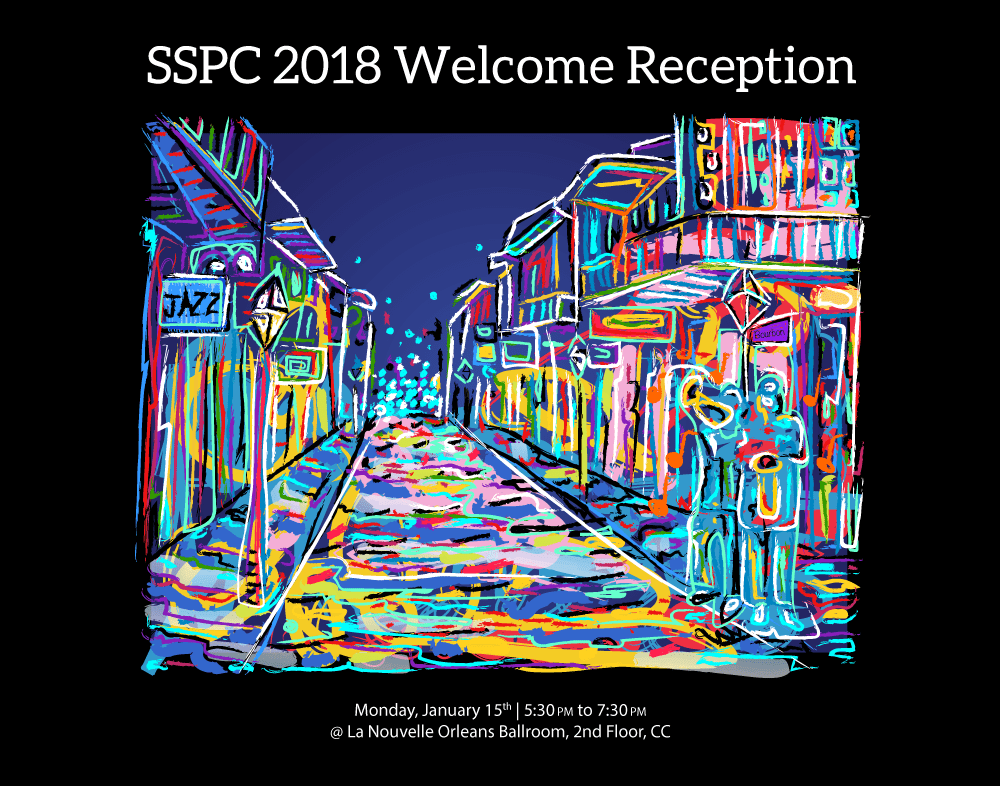
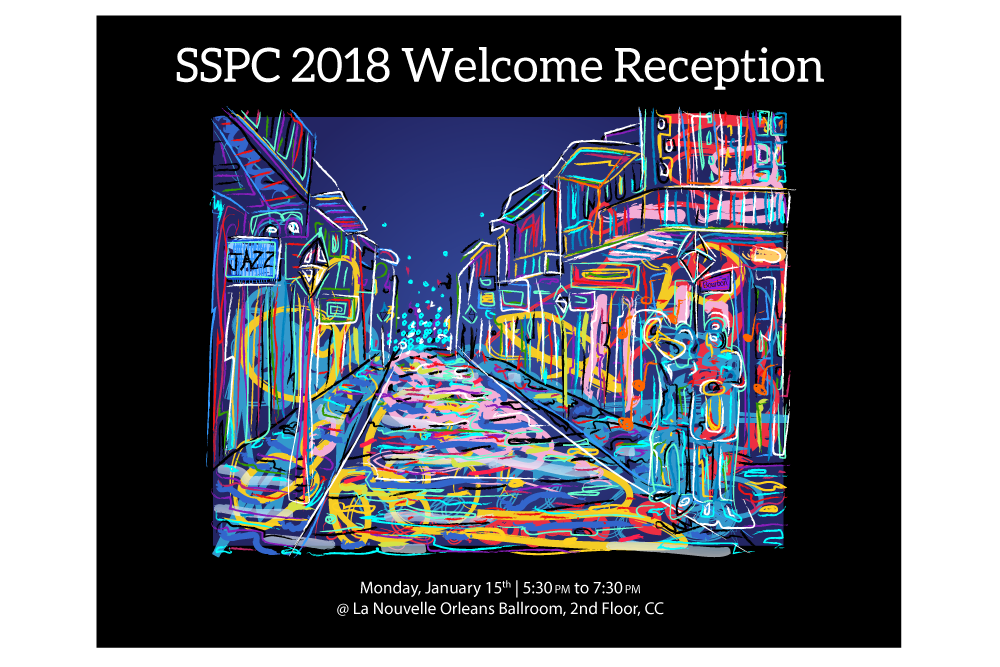
updated the image descriptions (#3)
updated the image descriptions for the print and digital images. I also updated the background color.

diff --git a/constants/print.js b/constants/print.js
@@ -1,14 +1,14 @@
 export default {
   "images": [
     {
-      "name": "my print 1",
+      "name": "Awards Program",
       "thumbnail": {
         "alt": "Awards program",
         "1x": "/static/print/<uniqueId>/thumbnail/@1x.png",
         "2x": "/static/print/<uniqueId>/thumbnail/@2x.png",
       },
       "features": {
-        "description": "Program for the awards reception at the annual SSPC conference.",
+        "description": "This program was created for the SSPC Award's lunch at their annual conference. It's final size was 6 inches tall by 4 inches wide.",
         "images": [
           {
             "alt": "Awards program",
@@ -25,14 +25,14 @@ export default {
       "uniqueId": "awards-program-2018"
     },
     {
-      "name": "my print 1",
+      "name": "DoD Conference Print Advertisement",
       "thumbnail": {
         "alt": "Advertisement for DoD Conference",
         "1x": "/static/print/<uniqueId>/thumbnail/@1x.png",
         "2x": "/static/print/<uniqueId>/thumbnail/@2x.png",
       },
       "features": {
-        "description": "Ad to promote registration for the DoD biannual corrosion conference.",
+        "description": "SSPC teamed up with the U.S. Department of Defense to administer their Corrosion Conference. I created all of the graphics, printed pieces, logo, website and anything else graphical they needed for their conference. This ad was create to help promote their conference. In this ad you'll see the logo I created for them as well.",
         "images": [
           {
             "alt": "Advertisement for DoD Conference",
@@ -45,14 +45,14 @@ export default {
       "uniqueId": "dod-logo-ad"
     },
     {
-      "name": "my print 1",
+      "name": "Hurricane Relief Fund Print Advertisement",
       "thumbnail": {
         "alt": "Advertisement to promote the SSPC hurricane relief fund.",
         "1x": "/static/print/<uniqueId>/thumbnail/@1x.png",
         "2x": "/static/print/<uniqueId>/thumbnail/@2x.png",
       },
       "features": {
-        "description": "Advertisement to promote the SSPC hurricane relief fund. The goal with this campaign was to boost membership sales.",
+        "description": "I was asked to come up with a way to boost membership at SSPC and I came up with the idea of giving new members a discount on the cost of membership when they donated to the SSPC hurricane relief fund. It was around this time that hurricane Harvey hit Texas, and I wanted to come up with a way for new members to feel like they we're doing good and also getting something in return (a discounted membership). This proved to work, because within the 3 months this campaign ran, we saw a 25 percent increase in membership. ",
         "images": [
           {
             "alt": "Advertisement to promote the SSPC hurricane relief fund.",
@@ -65,14 +65,14 @@ export default {
       "uniqueId": "hurricane-ad"
     },
     {
-      "name": "my print 1",
+      "name": "Membership Print Advertisement",
       "thumbnail": {
         "alt": "Membership ad",
         "1x": "/static/print/<uniqueId>/thumbnail/@1x.png",
         "2x": "/static/print/<uniqueId>/thumbnail/@2x.png",
       },
       "features": {
-        "description": "Advertisement to promote the SSPC membership.",
+        "description": "One way for a non-profit like SSPC to make money is through offering memberships. In the past, they ran ads that had a long list of benefits, and several paragraphs describing how these benefits can help someone if they become a SSPC member. I asked to design a new ad to promote their membership, because no one reads anymore and what they really needed was an ad that was straight to the point. I feel like that is what I accomplished here.",
         "images": [
           {
             "alt": "Membership ad",
@@ -85,14 +85,14 @@ export default {
       "uniqueId": "membership-ad"
     },
     {
-      "name": "my print 1",
+      "name": "SSPC 2018 Onsite Guide",
       "thumbnail": {
         "alt": "Conference guide",
         "1x": "/static/print/<uniqueId>/thumbnail/@1x.png",
         "2x": "/static/print/<uniqueId>/thumbnail/@2x.png",
       },
       "features": {
-        "description": "Conference guide for attendees at the SSPC 2018 annual conference.",
+        "description": "Every year SSPC has an annual conference and due to an older demographic, it is required to have an onsite guide for attendees to reference. This is a huge project that I had to design, edit, and collect all of the content that the guide contained. This guide contains 98 pages, stepping pages and enough text to make someone go cross eyed. My goals when designing this guide was to make sure that the text was easy to read, it was well organized and visually appealing. This piece contains some of the driest content I've ever read, and making it seem fun and worth while was quite a challenge. After everything was and done, I feel that I accomplished everything I set out to do. ",
         "images": [
           {
             "alt": "Conference guide",
@@ -114,14 +114,14 @@ export default {
       "uniqueId": "onsite-sspc-2018"
     },
     {
-      "name": "my print 1",
+      "name": "Two-Page Spread",
       "thumbnail": {
         "alt": "QP 2pg ad",
         "1x": "/static/print/<uniqueId>/thumbnail/@1x.png",
         "2x": "/static/print/<uniqueId>/thumbnail/@2x.png",
       },
       "features": {
-        "description": "Two-page spread designed to promote the SSPC QP program.",
+        "description": "<p>A competitor of SSPC's was making false claims about its QP Program. This is a certfication program with many different levels of certifications that has been around since the 80s. Its is a highly reguarded program and people are certified in the QP Program worldwide. The point of this timeline ad is to disprove the competitor's false claims and also show how much the program has grown through the years and still continues to grow to this day.</p><p> Pictured in this ad is the Brooklyn Bridge in NY. I chose to use this image because the contractors that worked on this bridge were QP certified. I also chose this image because most people who become certified in the QP Program work on bridges and bridges have become synonymous with the QP Program.",
         "images": [
           {
             "alt": "QP 2pg ad",
@@ -134,14 +134,14 @@ export default {
       "uniqueId": "qp-2pg-ad"
     },
     {
-      "name": "my print 1",
+      "name": "SSPC 2018 Preliminary Guide",
       "thumbnail": {
         "alt": "SSPC preliminary guide",
         "1x": "/static/print/<uniqueId>/thumbnail/@1x.png",
         "2x": "/static/print/<uniqueId>/thumbnail/@2x.png",
       },
       "features": {
-        "description": "Preliminary guide for the annual SSPC conference.",
+        "description": "Before the start of the SSPC annual conference, they mail preliminary guides to last year's attendees so they can get a glimpse of what to expect this year. Every year SSPC has sent out a bland, 8.5x11 magazine to their past guests and it usually doesn't get much impact. So when I sat down to design this guide, I decided to make something different. First I decided to change the shape, it's an 8x8 sqaure, and then I chose to make the design more modern by using monochromatic colors, bold font and a light frame to pull the viewers gaze to the center of the cover. I also changed the order of the guide, used bigger font and colored coded each day so that it's more organized. After recieving their preliminary guide in the mail, a lot of people thanked me for making the guide easier to follow and praised me on the modern design.",
         "images": [
           {
             "alt": "SSPC preliminary guide",
@@ -169,14 +169,14 @@ export default {
       "uniqueId": "sspc-prelim"
     },
     {
-      "name": "my print 1",
+      "name": "SSPC 2018 Conference Print Advertisement",
       "thumbnail": {
         "alt": "SSPC 2018 Conference Ad",
         "1x": "/static/print/<uniqueId>/thumbnail/@1x.png",
         "2x": "/static/print/<uniqueId>/thumbnail/@2x.png",
       },
       "features": {
-        "description": "Advertisement to promote the upcoming SSPC 2018 conference.",
+        "description": "I created this advertisement to promote the upcoming SSPC 2018 conference. I love how the bold color and font makes it stand out from the rest of the magazine. It's really hard to miss the message!",
         "images": [
           {
             "alt": "SSPC 2018 Conference Ad",
@@ -189,14 +189,14 @@ export default {
       "uniqueId": "sspc2018-ad"
     },
     {
-      "name": "my print 1",
+      "name": "SSPC 2018 Print Advertisement 2",
       "thumbnail": {
         "alt": "SSPC mobile training unit ad",
         "1x": "/static/print/<uniqueId>/thumbnail/@1x.png",
         "2x": "/static/print/<uniqueId>/thumbnail/@2x.png",
       },
       "features": {
-        "description": "Advertisement for the SSPC Mobile Training Unit.",
+        "description": "This ad was created to make the public aware that registration for the SSPC 2018 conference was still open. I used the same layout I used for the preliminary guide and the onsite guide for this ad so that everything was cohesive. ",
         "images": [
           {
             "alt": "SSPC mobile training unit ad",

diff --git a/constants/digital.js b/constants/digital.js
@@ -1,14 +1,14 @@
 export default {
   "images": [
     {
-      "name": "my digital 1",
+      "name": "Coatings+ Email Graphic",
       "thumbnail": {
         "alt": "Email to promote the Coatings+ Conference.",
         "1x": "/static/digital/<uniqueId>/thumbnail/@1x.png",
         "2x": "/static/digital/<uniqueId>/thumbnail/@2x.png",
       },
       "features": {
-        "description": "Email to promote the Coatings+ Conference.",
+        "description": "This email graphic was designed to make conference attendees aware that they can start booking their rooms for the upcoming SSPC annual show. This email was sent out to 100,000 plus people worldwide.",
         "images": [
           {
             "alt": "Email to promote the Coatings+ Conference.",
@@ -20,14 +20,14 @@ export default {
       "uniqueId": "coatings-email"
     },
     {
-      "name": "my digital 1",
+      "name": "Envelope Email",
       "thumbnail": {
         "alt": "SSPC 2018 email graphic",
         "1x": "/static/digital/<uniqueId>/thumbnail/@1x.png",
         "2x": "/static/digital/<uniqueId>/thumbnail/@2x.png",
       },
       "features": {
-        "description": "Email to promote the annual SSPC 2018 Conference.",
+        "description": "I was tasked with creating a graphic for an email that would be sent out to over 100,000 people worldwide. We wanted something that would standout and get people's attention. I chose to use bright colors, bold fonts and a unique shape to grab the attention of the viewer.",
         "images": [
           {
             "alt": "SSPC 2018 email graphic",
@@ -39,14 +39,14 @@ export default {
       "uniqueId": "envelope-email"
     },
     {
-      "name": "my digital 1",
+      "name": "Follow Us Email Graphic",
       "thumbnail": {
         "alt": "social media email graphic",
         "1x": "/static/digital/<uniqueId>/thumbnail/@1x.png",
         "2x": "/static/digital/<uniqueId>/thumbnail/@2x.png",
       },
       "features": {
-        "description": "Email graphic designed to aware the public of SSPC's social media presence.",
+        "description": "Everyone is looking to get followers on social media and that is what this image was suppose to convey. When I designed this graphic, I took the words 'follow us' quite literally. I like how simple this graphic is and how it can be used by itself and the viewer would still get the intent. " ,
         "images": [
           {
             "alt": "social media email graphic",
@@ -58,14 +58,14 @@ export default {
       "uniqueId": "follow-us-sm-email"
     },
     {
-      "name": "my digital 1",
+      "name": "Welcome Reception Sign",
       "thumbnail": {
         "alt": "Welcome reception sign",
         "1x": "/static/digital/<uniqueId>/thumbnail/@1x.png",
         "2x": "/static/digital/<uniqueId>/thumbnail/@2x.png",
       },
       "features": {
-        "description": "Digital illustration of New Orleans night life. This reception sign was used digitally and was printed to help promote the SSPC 2018 conference welcome reception.",
+        "description": "<p>I love creating digital illustrations and trying new concepts. When I was asked to design a sign for a big welcome reception party at the SSPC annual conference that encompasses the New Orleans vibe, the first things that came to mind were jazz and Bourban Street. What is more representing of a party in New Orleans than Bourban Street? The answer, nothing.</p><p> So I did some research on vintage art in the New Orleans area and decided to create my own version of an abstract painting of night life on Bourban Street. When I showed this piece to my team, they were thrilled with the outcome because it was so different from anything else I've ever done.</p> <p>This image was used digitally on monitors throughout the venue and was also printed and placed outside of the reception hall.</p>",
         "images": [
           {
             "alt": "Welcome reception sign",
@@ -77,14 +77,14 @@ export default {
       "uniqueId": "welcome-reception-sign"
     },
     {
-      "name": "my digital 1",
+      "name": "Welcome to Tampa Reception Sign",
       "thumbnail": {
         "alt": "Welcome tampa sign",
         "1x": "/static/digital/<uniqueId>/thumbnail/@1x.png",
         "2x": "/static/digital/<uniqueId>/thumbnail/@2x.png",
       },
       "features": {
-        "description": "This digital illustration was used on the welcome reception sign for the SSPC 2017 conference. It was used digitally to promote the reception.",
+        "description": "<p>Every year at the SSPC annual conference we have a big welcome reception. Of course something like this needs to be promoted. I was asked to create a sign that was attention grabbing and didn't have to do anything with the beach, or Tampa night life. </p> <p>I found this to be challenging but I put my thinking cap on and decided to focus on the Spanish culture in Tampa. </p> <p>While researching the area's Spanish culture, I fell in love with the decorative tiles that seemed to be part of a lot of their structures. So I thought about who created these tiles and what they must have looked like many years ago. When I sat down to draw this graphic, a woman decked out in the beautiful, printed, ancient attire came to mind and that's exactly what I created. </p> <p>This image was used digitally to promote the welcome reception party. </p>",
         "images": [
           {
             "alt": "Welcome tampa sign",

diff --git a/styles/theme.js b/styles/theme.js
@@ -1,5 +1,5 @@
 export default {
   black: '#373737',
-  primaryColor: '#DCD0C0',
+  primaryColor: '#D9D9D9',
   white: '#f4f4f4',
 }
